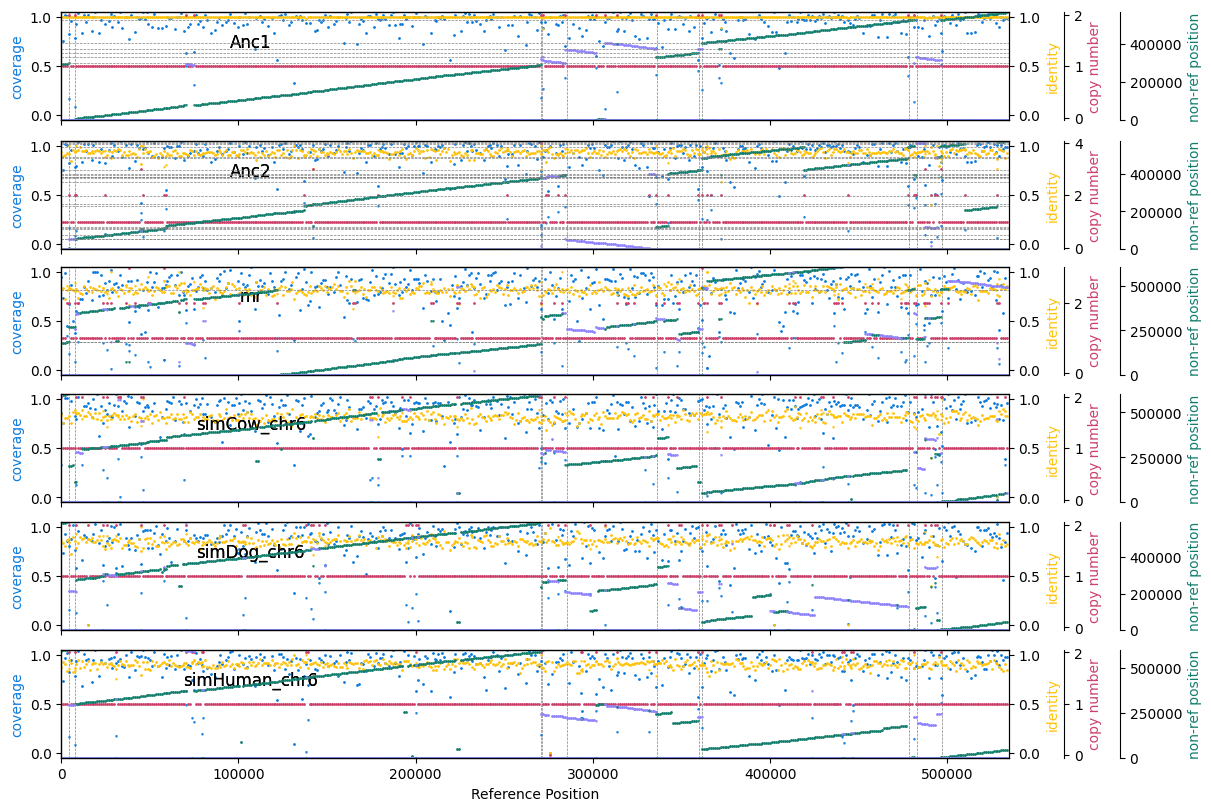
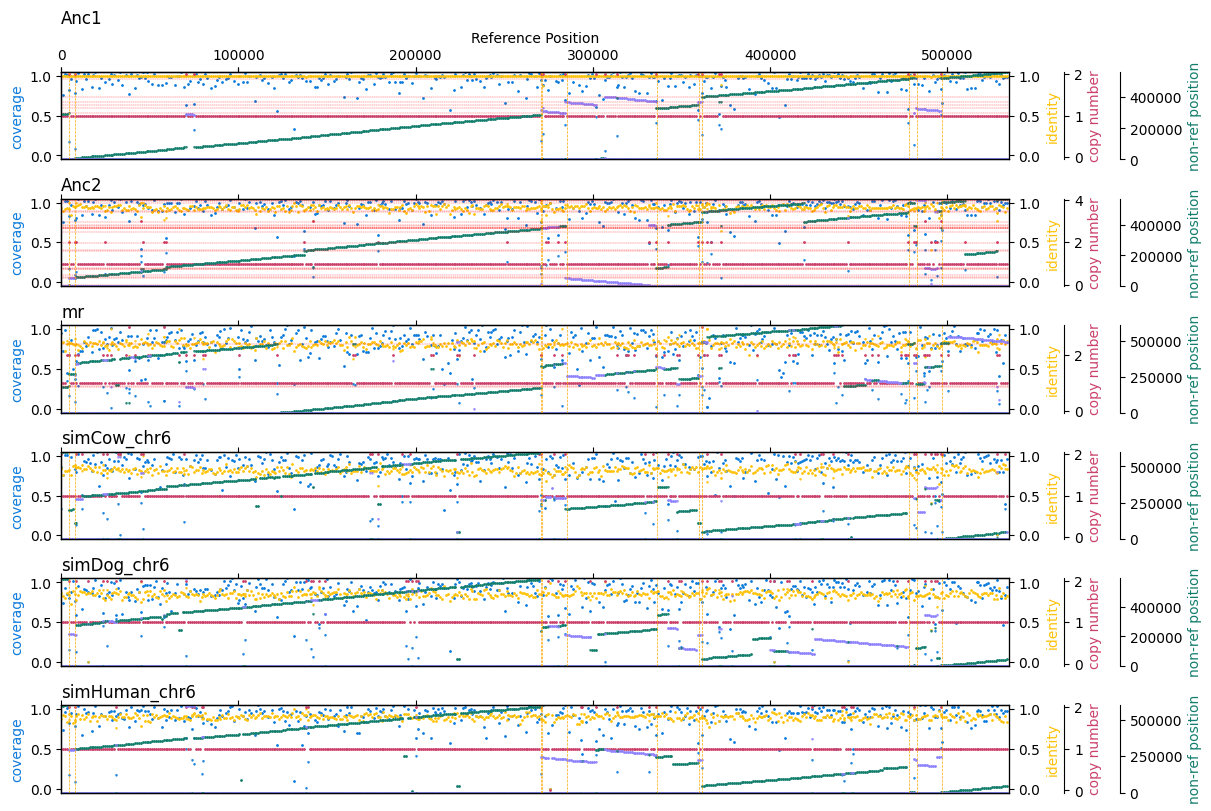
Adding a synteny view to the taffy alignment plot script and updating the docs.

Changed region(s): [[0.0, 0.0, 1.0, 0.9864]]

diff --git a/scripts/taffy_alignment_plot.py b/scripts/taffy_alignment_plot.py
@@ -9,10 +9,9 @@ import argparse
 import taffy.lib
 
 # Todos:
-
 # Add support to show alignment annotations
-# Add support for rearrangement bi-partite view
 # Make it easy to integrate into a Jupyter notebook
+
 
 def main():
     # Set script arguments
@@ -105,6 +104,12 @@ def main():
         help="Show a dot plot of the alignment"
     )
     parser.add_argument(
+        "--show_synteny_plot",
+        action='store_true',
+        default=False,
+        help="Show a synteny of the alignment"
+    )
+    parser.add_argument(
         "--show_secondary_alignments",
         action='store_true',
         default=False,
@@ -122,7 +127,6 @@ def main():
         default="pdf",
         help="Output format for plot, works with pdf/png"
     )
-
 
     # Parse arguments
     args = parser.parse_args()
@@ -284,21 +288,21 @@ def main():
     # Bin coordinates gives the x-axis scale, where we account for the length of the skipped blocks, assuming
     # equally distributed among bins
     bin_coordinates = [i*((total_ref_length + total_ref_gap_length) / args.bin_number) for i in range(args.bin_number)]
-    for sub_plot, seq_name in zip(sub_plots, sampled_seq_names):
+    for plot_no, (sub_plot, seq_name) in enumerate(zip(sub_plots, sampled_seq_names)):
         bins = seq_name_to_bins[seq_name]
         matches = seq_name_to_matches[seq_name]
         max_alignments = max(1, max([len(runs) for runs in bins]))  # Maximum number of runs in any bin
-        sub_plot.set_title(seq_name, x=0.2, y=0.6)  # Show the sequence name within the plot
-        sub_plot.set_xlim(0, total_ref_length + total_ref_gap_length)  # Set the x-axis scale
+        sub_plot.set_title(seq_name, loc='left')  # Show the sequence name on the left of the plot
 
-        # Optionally, draw the sequence ends on the plot (these should be accurate with respect to bins)
-        if args.show_sequence_boundaries:
-            ref_offset = 0
-            for ref_seq_name, start, length in reference_sequence_intervals:
-                if ref_offset != 0:
-                    sub_plot.axvline(x=(ref_offset/total_ref_length) * (total_ref_length + total_ref_gap_length),
-                                     linewidth=0.5, linestyle='dashed', color='grey')
-                ref_offset += length
+        if plot_no == 0:  # If first plot, add a secondary x-axis and label at the top to indicate
+            # the coordinates of the reference
+            secax = sub_plot.secondary_xaxis('top')
+            secax.set_xlabel('Reference Position')
+            secax.set_xlim(0, total_ref_length + total_ref_gap_length)  # Set the x-axis scale for this secondary axis
+
+        sub_plot.set_xlim(0, total_ref_length + total_ref_gap_length)  # Set the x-axis scale
+        sub_plot.xaxis.tick_top()  # Try to put it at the top
+        sub_plot.xaxis.set_ticklabels([])  # Should hide the x-axis tick marks, but doesn't!
 
         # Plot the coverage as a blue points
         if not args.hide_coverage:
@@ -335,7 +339,6 @@ def main():
                                     linestyle="", markersize=1)  # Show the secondary points as triangles
 
             sub_plot_2.set_ylim(-0.05, 1+0.05)
-            sub_plot_2.set_title(seq_name, x=0.2, y=0.6)
             sub_plot_2.set_ylabel('identity', color=color)
             y_axis_offset = 40
 
@@ -350,18 +353,19 @@ def main():
             sub_plot_3.spines['right'].set_position(('outward', y_axis_offset))
             y_axis_offset += 40
 
-        if args.show_dot_plot:
+        if args.show_dot_plot or args.show_synteny_plot:
             # First calculate the sequence offset for each non-reference sequence, laying out the non reference
             # sequences in the order they are first traversed in the alignment
             subsequence_offsets = {}
             non_ref_offset = 0
             for i, runs in enumerate(bins):  # For each bin
                 for j, run in enumerate(runs):  # For each run
-                    first_non_ref_row = run[0][1]   # Get the first row
+                    first_non_ref_row = run[0][1]  # Get the first row
                     if first_non_ref_row.sequence_name() not in subsequence_offsets:
                         subsequence_offsets[first_non_ref_row.sequence_name()] = non_ref_offset
                         non_ref_offset += first_non_ref_row.sequence_length()
 
+        if args.show_dot_plot:
             # Make a squashed dot plot to show the approx coordinate of the bin on the non-ref sequence(s)
             sub_plot_4 = sub_plot.twinx()
             forward_color, reverse_color = 'xkcd:blue green', 'xkcd:periwinkle'
@@ -372,11 +376,12 @@ def main():
                     if j < len(runs):
                         first_non_ref_row = runs[j][0][1]
                         if first_non_ref_row.strand():
-                            dot_plot[i, :] = subsequence_offsets[first_non_ref_row.sequence_name()] + \
-                                             first_non_ref_row.start(), -1
+                            k = subsequence_offsets[first_non_ref_row.sequence_name()] + first_non_ref_row.start()
+                            dot_plot[i, :] = k, -1
                         else:
-                            dot_plot[i, :] = -1, subsequence_offsets[first_non_ref_row.sequence_name()] + \
-                                             first_non_ref_row.sequence_length() - first_non_ref_row.start()
+                            k = subsequence_offsets[first_non_ref_row.sequence_name()] + \
+                                first_non_ref_row.sequence_length() - first_non_ref_row.start()
+                            dot_plot[i, :] = -1, k
                     else:
                         dot_plot[i, :] = -1, -1
                 sub_plot_4.plot(bin_coordinates, dot_plot[:, 0], color=forward_color, marker='o' if j == 0 else 'v',
@@ -392,14 +397,75 @@ def main():
             if args.show_sequence_boundaries:
                 for non_ref_seq_name, non_ref_offset in subsequence_offsets.items():
                     if non_ref_offset != 0:
-                        sub_plot_4.axhline(y=non_ref_offset, linewidth=0.5, linestyle='dashed', color='grey')
+                        sub_plot_4.axhline(y=non_ref_offset, linewidth=0.25, linestyle='dashed', color='red')
 
-    # Turn off the x-axis tick labels for everything except the last plot
-    for sub_plot in sub_plots[:-1]:
-        sub_plot.set_xticklabels([])
+        if args.show_synteny_plot:
+            # Make a squashed dot plot to show the approx coordinate of the bin on the non-ref sequence(s)
+            sub_plot_5 = sub_plot.twiny()
+            max_non_ref_coordinate = 1  # Track the largest non-reference coordinate so that we can lay out the x-axis
+            colors = plt.cm.viridis(np.linspace(0, 1, args.bin_number))  # The color map for the lines
+            # (so they have a gradient)
+            lines = []  # A list of lines to plot
+            for j in range(max_alignments if args.show_secondary_alignments else 1):
+                for i, runs in enumerate(bins):
+                    if j < len(runs):
+                        first_non_ref_row = runs[j][0][1]
+                        if first_non_ref_row.strand():
+                            k = subsequence_offsets[first_non_ref_row.sequence_name()] + first_non_ref_row.start()
+                            assert k >= 0 and bin_coordinates[i] >= 0
+                            lines.append((bin_coordinates[i], k, i))
+                        else:
+                            k = subsequence_offsets[first_non_ref_row.sequence_name()] + \
+                                first_non_ref_row.sequence_length() - first_non_ref_row.start()
+                            assert k >= 0 and bin_coordinates[i] >= 0
+                            lines.append((bin_coordinates[i], k, i))
+                        max_non_ref_coordinate = max_non_ref_coordinate if max_non_ref_coordinate > k else k
 
-    # Label the bottom most axis
-    sub_plots[-1].set_xlabel('Reference Position')
+            # Get the total span needed for the x-axis
+            max_coordinate = total_ref_length + total_ref_gap_length
+            if max_coordinate < max_non_ref_coordinate:
+                max_coordinate = max_non_ref_coordinate
+
+            # Set the axis limits
+            sub_plot_5.set_xlim(-0.01, max_coordinate + 0.01)
+            sub_plot_5.set_ylim(0, 1)
+
+            # Mess with the labels
+            sub_plot_5.xaxis.tick_bottom()  # Make it so the ticks are at the bottom
+            sub_plot.xaxis.tick_top()  # Hide the default x-axis, again, because otherwise the call to twiny() (I think)
+            # makes it reappear
+            sub_plot.xaxis.set_ticklabels([])  # Again, should hide the x-axis tick marks (but doesn't)
+            # If this is the last plot, add the label
+            if plot_no+1 == len(sub_plots):
+                sub_plot_5.set_xlabel('Non Reference Position')
+                sub_plot_5.xaxis.set_label_position('bottom')
+
+            # Now add the lines
+            for (ref_pos, non_ref_pos, i) in lines:
+                sub_plot_5.axline((max_coordinate * ref_pos/(total_ref_length + total_ref_gap_length), 1),
+                                  (max_coordinate * non_ref_pos/max_non_ref_coordinate, 0), color=colors[i], alpha=0.6)
+
+            # Optionally, draw the non-reference sequence ends on the plot, in this case each is a vertical line
+            if args.show_sequence_boundaries:
+                for non_ref_seq_name, non_ref_offset in subsequence_offsets.items():
+                    if non_ref_offset != 0:
+                        sub_plot_5.axvline(x=max_coordinate * non_ref_offset/max_non_ref_coordinate,
+                                           linewidth=0.5, linestyle='dashed', color='red')
+
+        # Optionally, draw the reference sequence ends on the plot (these should be accurate with respect to bins)
+        if args.show_sequence_boundaries:
+            sub_plot_6 = sub_plot.twinx()
+            sub_plot_6.set_xlim(0, total_ref_length + total_ref_gap_length)
+            sub_plot_6.yaxis.set_visible(False)  # Hide the y-axis
+            ref_offset = 0
+            for ref_seq_name, start, length in reference_sequence_intervals:
+                if ref_offset != 0:
+                    sub_plot_6.axvline(x=(ref_offset/total_ref_length) * (total_ref_length + total_ref_gap_length),
+                                       linewidth=0.5, linestyle='dashed', color='orange')
+                ref_offset += length
+
+        if args.hide_coverage:
+            sub_plot.yaxis.set_visible(False)
 
     # If an output filename is given then save it as a PDF in that file
     if args.out_file:

diff --git a/docs/taffy_scripts.md b/docs/taffy_scripts.md
@@ -6,16 +6,30 @@ All Taffy scripts are in the ./scripts directory.
 
 For example, display an alignment:
 
-    ./scripts/alignment_plot.py --max_sequences 6 ./tests/evolverMammals.maf --out_file ./out.pdf --bin_number 500 --sample_every_nth_block=5 --show_dot_plot --show_secondary_alignments --show_identity --show_sequence_boundaries --show_copy_number
+    ./scripts/taffy_alignment_plot.py --max_sequences 6 ./tests/evolverMammals.maf --out_file ./out.pdf --bin_number 500 --sample_every_nth_block=5 --show_dot_plot --show_secondary_alignments --show_identity --show_sequence_boundaries --show_copy_number
 
 Runs in (M1 Mac):
 
-    6.47s user 2.36s system 175% cpu 5.042 total
+    8.04s user 2.35s system 199% cpu 5.207 total
 
 And produces:
 
 ![image](https://github.com/ComparativeGenomicsToolkit/taffy/blob/main/docs/examples/alignment_plot_example.png)
 
 These options select six sequences stratified by alignment coverage to display and show coverage, identity, copy-number and dot-plots for each. Note the sample_every_nth_block param can be used to speed up displaying larger alignments by only sampling a subset of blocks. Surprisingly, this has little to no effect on visualizations at megabase scales.
+
+You can also opt for a synteny plot, for example:
+
+    time ./scripts/taffy_alignment_plot.py --max_sequences 3 --sample_highest_coverage ./tests/evolverMammals.maf --out_file ./out.png --bin_number 500 --sample_every_nth_block=5 --hide_coverage --show_synteny_plot --show_secondary_alignments --show_sequence_boundaries --output_format png
+
+Runs in (M1 Mac):
+
+    8.10s user 2.25s system 182% cpu 5.684 total
+
+And produces:
+
+![image](https://github.com/ComparativeGenomicsToolkit/taffy/blob/main/docs/examples/synteny_example.png)
+
+This works best for relatively closely related sequences.
 
 TODO - documenting tree manipulation scripts
